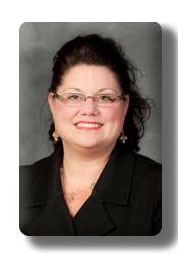
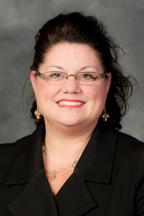
Photos show on mousover

diff --git a/page/fairfaximmersion/index.html b/page/fairfaximmersion/index.html
@@ -150,7 +150,9 @@
             <strong><span id="districtName">name</span></strong>
             <br>Supervisor: <b><span id="supervisor"></span></b>
             <br>School Board: <b><span id="schoolBoard"></span></b>
-        </p>
+            <img id="schoolBoardPhoto" src="../../photo/schoolboard/070812-0006-imoon-web.JPG" width="100" height="150" />
+            <img id="supervisorPhoto" src="../../photo/supervisor/070812-0006-imoon-web.JPG" width="100" height="150" />
+        </p>        
     </div>    
     
     <script type="text/javascript">
@@ -214,19 +216,30 @@
                     })
                     .style('fill-opacity', 0.5)
                     .on('mouseover', function (d) {
-
+                        var district = d.properties;
+                      
                         d3.select(this).style('fill-opacity', .9)
                             .attr("stroke", "black")
                             .attr("stroke-width", 2);
 
                         d3.select("#districttooltip")
-                            .style("left", (d3.event.pageX + 15) + "px")
-                            .style("top", (d3.event.pageY - 10) + "px")
+                            //.style("left", (d3.event.pageX + 15) + "px")
+                            //.style("top", (d3.event.pageY - 10) + "px")
+                            .style("left", "570px")
+                            .style("top", "50px")
                             .classed("hidden", false);
                           
-                        d3.select("#districtName").text(d.properties.DISTRICT + " District");
-                        d3.select("#supervisor").text(d.properties.NAME)
-                        d3.select("#schoolBoard").text(d.properties.schoolBoard);
+                        d3.select("#districtName").text(district.DISTRICT + " District");
+                        d3.select("#supervisor").text(district.NAME)
+                        d3.select("#schoolBoard").text(district.schoolBoard);
+
+                        d3.select("#schoolBoardPhoto").attr("src", function (d) {
+                            return "../../photo/schoolboard/" + district.DISTRICT.replace(" ", "-") + ".JPG";
+                        });
+
+                        d3.select("#supervisorPhoto").attr("src", function (d) {
+                            return "../../photo/supervisor/" + district.DISTRICT.replace(" ", "-") + ".JPG";
+                        });
                     })
                     .on('mouseout', function (d) {
                         d3.select(this)
